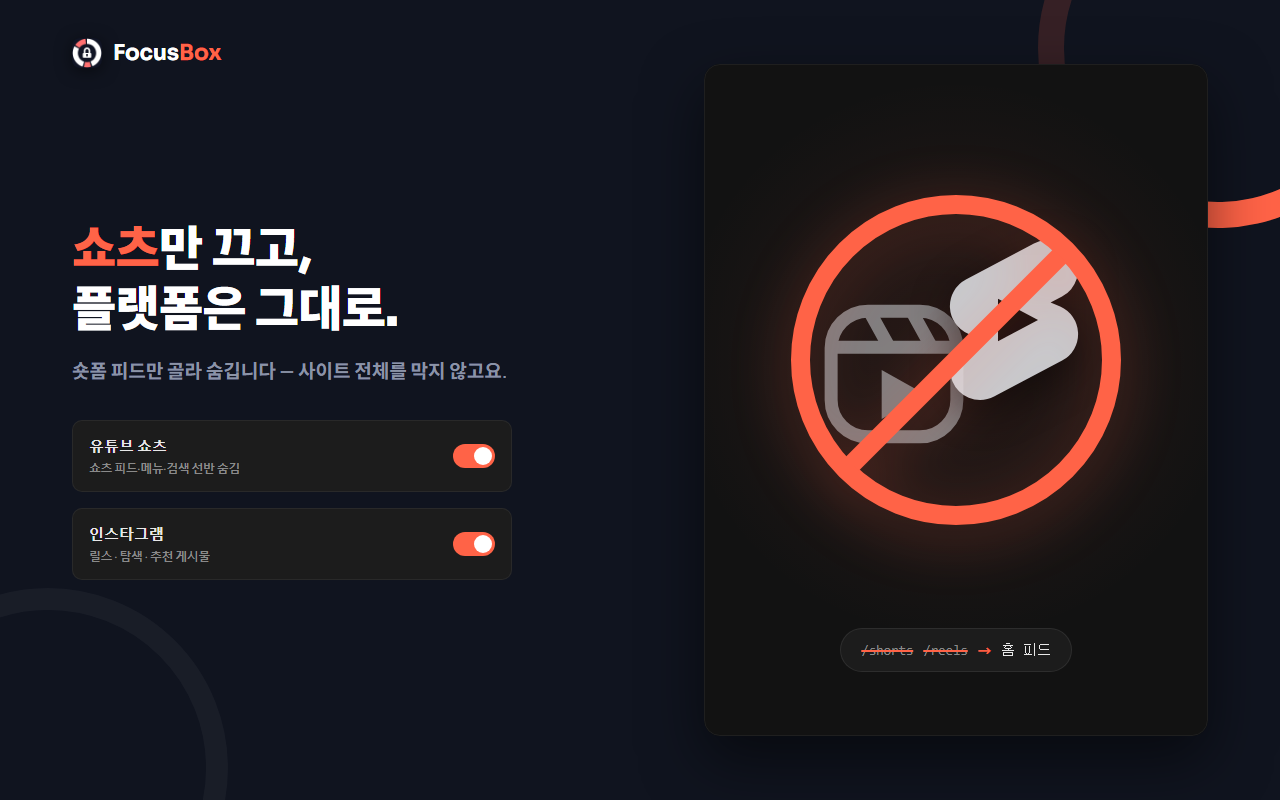
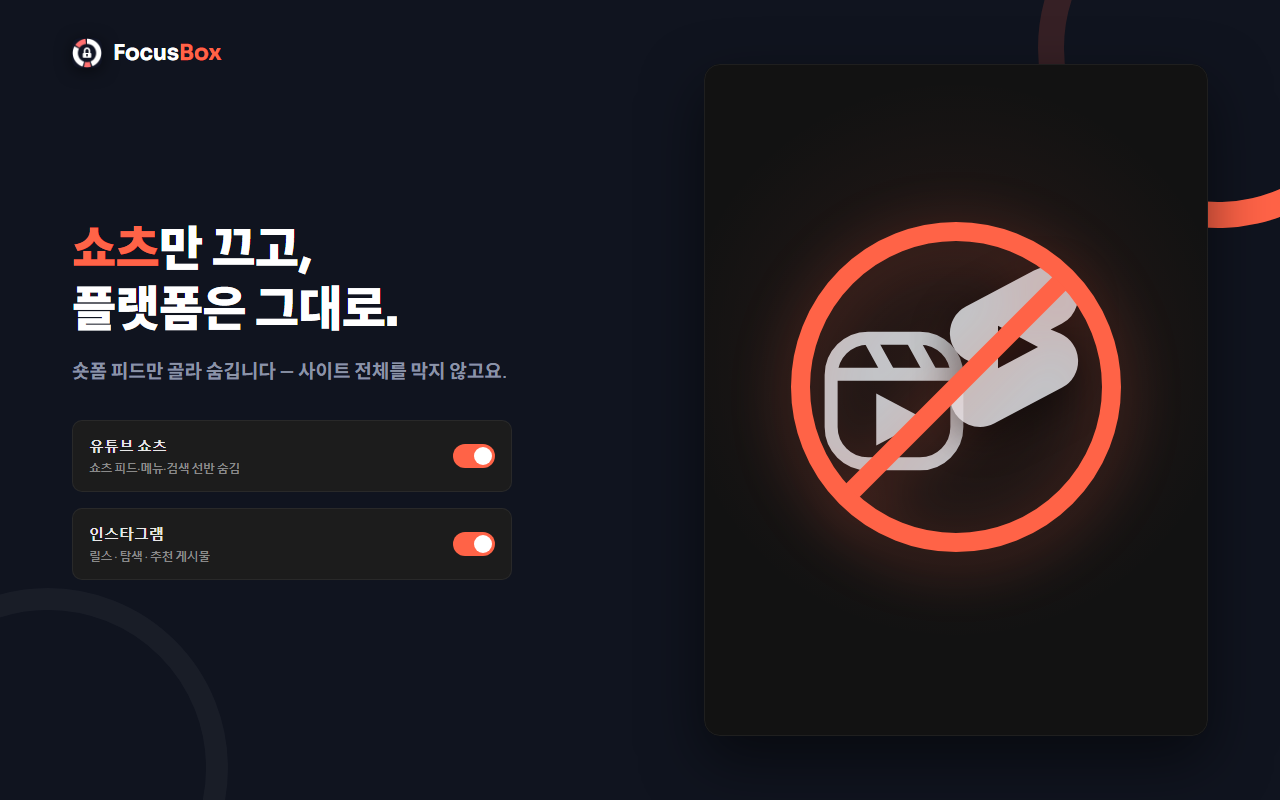
통계 스크린샷 추가

Changed region(s): [[0.5938, 0.2188, 0.875, 0.6875], [0.6875, 0.8125, 0.7812, 0.8438]]

diff --git a/store-listing/assets/screenshot-05-stats.ko.source.html b/store-listing/assets/screenshot-05-stats.ko.source.html
@@ -1,0 +1,59 @@
+<!doctype html><html><head><meta charset="utf-8">
+<link rel="preconnect" href="https://fonts.googleapis.com">
+<link rel="preconnect" href="https://fonts.gstatic.com" crossorigin>
+<link href="https://fonts.googleapis.com/css2?family=Sora:wght@600;700;800&family=Manrope:wght@500;600&display=swap" rel="stylesheet">
+<style>
+*{margin:0;padding:0;box-sizing:border-box}
+html,body{width:1280px;height:800px;overflow:hidden}
+.shot{position:relative;width:1280px;height:800px;background:#10141f;overflow:hidden;font-family:'Manrope',system-ui,Arial,sans-serif}
+
+/* 우상단 tomato 톤링 + 액센트 아크 (절반 캔버스 밖) */
+.ring-tr{position:absolute;top:-132px;right:-118px;width:360px;height:360px;border-radius:50%;border:26px solid rgba(255,99,71,.16)}
+.ring-accent{position:absolute;top:-132px;right:-118px;width:360px;height:360px;border-radius:50%;border:26px solid transparent;border-bottom-color:#ff6347;transform:rotate(-24deg)}
+.ring-bl{position:absolute;bottom:-148px;left:-132px;width:360px;height:360px;border-radius:50%;border:22px solid rgba(255,255,255,.04)}
+
+/* 좌상단 브랜드 락업 */
+.lockup{position:absolute;top:38px;left:72px;display:flex;align-items:center;gap:11px;z-index:2}
+.lockup img{width:30px;height:30px;display:block;border-radius:8px;filter:drop-shadow(0 3px 8px rgba(0,0,0,.5))}
+.wordmark{font-family:'Sora',sans-serif;font-weight:700;font-size:22px;letter-spacing:-.01em;line-height:1}
+.wordmark .w{color:#fff}
+.wordmark .b{color:#ff6347}
+
+/* ── A형: 상단 캡션 밴드 + 하단 와이드 캡처 ── */
+.caption{position:absolute;top:0;left:0;right:0;height:220px;padding:0 72px 32px;display:flex;flex-direction:column;justify-content:flex-end;z-index:2}
+h1{font-family:'Sora',sans-serif;font-weight:800;font-size:44px;line-height:1.2;color:#fff;letter-spacing:-.015em}
+h1 em{font-style:normal;color:#ff6347}
+p{margin-top:16px;font-family:'Manrope',sans-serif;font-weight:600;font-size:19px;line-height:1.4;color:#8b93a7;max-width:920px}
+
+/* 캡처 슬롯.
+   통계 탭 하단 두 카드(집중 통계 + 차단 통계)만 크롭 — 스트릭 달력은 데이터가 적을 때
+   대부분 빈 그리드라 낭비이고, 포모도로 통계는 세로 스택이라 와이드 구도에 안 맞음.
+   두 카드 묶음(1355×711 ≈ 1.91:1)은 슬롯(2.236:1)보다 세로가 길어 높이 기준으로 맞추고,
+   좌우 여백은 캡처 body 배경색(#121212)으로 이음매 없이 채운다. */
+.slot{position:absolute;left:72px;top:220px;width:1136px;height:508px;border-radius:16px;background:#121212;box-shadow:0 24px 60px rgba(0,0,0,.5);overflow:hidden}
+/* crop 1358x713 @ 8,396 → scale 508/713 = .7125 (높이 기준, 렌더 폭 967) */
+.crop{position:absolute;left:50%;top:50%;width:1358px;height:713px;overflow:hidden;transform:translate(-50%,-50%) scale(.7125)}
+.crop img{position:absolute;left:-8px;top:-396px;display:block}
+.slot .edge{position:absolute;inset:0;border-radius:16px;border:1px solid rgba(255,255,255,.06);pointer-events:none}
+</style></head><body>
+<div class="shot">
+  <div class="ring-tr"></div>
+  <div class="ring-accent"></div>
+  <div class="ring-bl"></div>
+
+  <div class="lockup">
+    <img alt="" src="../../icons/icon128.png">
+    <div class="wordmark"><span class="w">Focus</span><span class="b">Box</span></div>
+  </div>
+
+  <div class="caption">
+    <h1><em>쌓이는</em> 습관을 눈으로. 100% 기기 안에서.</h1>
+    <p>일별 집중 시간, 차단 횟수, 상위 차단 도메인. 계정도, 서버도, 추적도 없습니다.</p>
+  </div>
+
+  <div class="slot">
+    <div class="crop"><img alt="" src="Stats-ko.png"></div>
+    <div class="edge"></div>
+  </div>
+</div>
+</body></html>

diff --git a/store-listing/assets/screenshot-05-stats.source.html b/store-listing/assets/screenshot-05-stats.source.html
@@ -1,0 +1,59 @@
+<!doctype html><html><head><meta charset="utf-8">
+<link rel="preconnect" href="https://fonts.googleapis.com">
+<link rel="preconnect" href="https://fonts.gstatic.com" crossorigin>
+<link href="https://fonts.googleapis.com/css2?family=Sora:wght@600;700;800&family=Manrope:wght@500;600&display=swap" rel="stylesheet">
+<style>
+*{margin:0;padding:0;box-sizing:border-box}
+html,body{width:1280px;height:800px;overflow:hidden}
+.shot{position:relative;width:1280px;height:800px;background:#10141f;overflow:hidden;font-family:'Manrope',system-ui,Arial,sans-serif}
+
+/* 우상단 tomato 톤링 + 액센트 아크 (절반 캔버스 밖) */
+.ring-tr{position:absolute;top:-132px;right:-118px;width:360px;height:360px;border-radius:50%;border:26px solid rgba(255,99,71,.16)}
+.ring-accent{position:absolute;top:-132px;right:-118px;width:360px;height:360px;border-radius:50%;border:26px solid transparent;border-bottom-color:#ff6347;transform:rotate(-24deg)}
+.ring-bl{position:absolute;bottom:-148px;left:-132px;width:360px;height:360px;border-radius:50%;border:22px solid rgba(255,255,255,.04)}
+
+/* 좌상단 브랜드 락업 */
+.lockup{position:absolute;top:38px;left:72px;display:flex;align-items:center;gap:11px;z-index:2}
+.lockup img{width:30px;height:30px;display:block;border-radius:8px;filter:drop-shadow(0 3px 8px rgba(0,0,0,.5))}
+.wordmark{font-family:'Sora',sans-serif;font-weight:700;font-size:22px;letter-spacing:-.01em;line-height:1}
+.wordmark .w{color:#fff}
+.wordmark .b{color:#ff6347}
+
+/* ── A형: 상단 캡션 밴드 + 하단 와이드 캡처 ── */
+.caption{position:absolute;top:0;left:0;right:0;height:220px;padding:0 72px 32px;display:flex;flex-direction:column;justify-content:flex-end;z-index:2}
+h1{font-family:'Sora',sans-serif;font-weight:800;font-size:44px;line-height:1.15;color:#fff;letter-spacing:-.015em}
+h1 em{font-style:normal;color:#ff6347}
+p{margin-top:16px;font-family:'Manrope',sans-serif;font-weight:600;font-size:19px;line-height:1.4;color:#8b93a7;max-width:920px}
+
+/* 캡처 슬롯.
+   통계 탭 하단 두 카드(집중 통계 + 차단 통계)만 크롭 — 스트릭 달력은 데이터가 적을 때
+   대부분 빈 그리드라 낭비이고, 포모도로 통계는 세로 스택이라 와이드 구도에 안 맞음.
+   두 카드 묶음(1355×711 ≈ 1.91:1)은 슬롯(2.236:1)보다 세로가 길어 높이 기준으로 맞추고,
+   좌우 여백은 캡처 body 배경색(#121212)으로 이음매 없이 채운다. */
+.slot{position:absolute;left:72px;top:220px;width:1136px;height:508px;border-radius:16px;background:#121212;box-shadow:0 24px 60px rgba(0,0,0,.5);overflow:hidden}
+/* crop 1355x711 @ 12,438 → scale 508/711 = .7145 (높이 기준, 렌더 폭 968) */
+.crop{position:absolute;left:50%;top:50%;width:1355px;height:711px;overflow:hidden;transform:translate(-50%,-50%) scale(.7145)}
+.crop img{position:absolute;left:-12px;top:-438px;display:block}
+.slot .edge{position:absolute;inset:0;border-radius:16px;border:1px solid rgba(255,255,255,.06);pointer-events:none}
+</style></head><body>
+<div class="shot">
+  <div class="ring-tr"></div>
+  <div class="ring-accent"></div>
+  <div class="ring-bl"></div>
+
+  <div class="lockup">
+    <img alt="" src="../../icons/icon128.png">
+    <div class="wordmark"><span class="w">Focus</span><span class="b">Box</span></div>
+  </div>
+
+  <div class="caption">
+    <h1>Watch the habit <em>form</em> — 100% on-device.</h1>
+    <p>Daily focus time, block counts, top blocked domains. No accounts. No servers. No tracking.</p>
+  </div>
+
+  <div class="slot">
+    <div class="crop"><img alt="" src="Stats-en.png"></div>
+    <div class="edge"></div>
+  </div>
+</div>
+</body></html>

diff --git a/store-listing/assets/screenshot-03-strongblock.ko.source.html b/store-listing/assets/screenshot-03-strongblock.ko.source.html
@@ -40,18 +40,12 @@ h1 em{font-style:normal;color:#ff6347}
 .slot-v .glow{position:absolute;inset:0;background:radial-gradient(circle at 50% 44%,rgba(255,99,71,.10),transparent 62%)}
 
 /* 릴스(좌, 아래 레이어) + 쇼츠(우, 위 레이어) 겹침 배치 + 금지 표시 */
-.iconwrap{position:absolute;left:50%;top:44%;transform:translate(-50%,-50%);width:360px;height:360px}
-.icon-reels{position:absolute;left:36px;top:112px;opacity:.5}
-.icon-shorts{position:absolute;left:158px;top:60px;opacity:.88;filter:drop-shadow(0 10px 22px rgba(0,0,0,.65))}
+.iconwrap{position:absolute;left:50%;top:48%;transform:translate(-50%,-50%);width:360px;height:360px}
+.icon-reels{position:absolute;left:36px;top:112px;opacity:.85}
+.icon-shorts{position:absolute;left:158px;top:60px;opacity:.85;filter:drop-shadow(0 10px 22px rgba(0,0,0,.65))}
 .ban{position:absolute;left:50%;top:50%;transform:translate(-50%,-50%);width:330px;height:330px;border:19px solid #ff6347;border-radius:50%;filter:drop-shadow(0 10px 28px rgba(255,99,71,.32))}
 .ban i{position:absolute;left:50%;top:50%;width:294px;height:19px;background:#ff6347;transform:translate(-50%,-50%) rotate(-45deg)}
 
-/* 패널 하단: 리다이렉트 스토리 */
-.redirect{position:absolute;left:0;right:0;bottom:64px;display:flex;justify-content:center}
-.redirect .pill{display:flex;align-items:center;gap:10px;background:#1c1c1c;border:1px solid rgba(255,255,255,.08);border-radius:22px;padding:11px 20px;font-family:'SF Mono',ui-monospace,Menlo,Consolas,monospace;font-size:13.5px}
-.redirect .from{color:#8a8a8a;text-decoration:line-through;text-decoration-color:#ff6347;text-decoration-thickness:2px}
-.redirect .arrow{color:#ff6347;font-family:'Manrope',sans-serif;font-weight:700}
-.redirect .to{color:#e8e8e8}
 </style></head><body>
 <div class="shot">
   <div class="ring-tr"></div>
@@ -87,16 +81,13 @@ h1 em{font-style:normal;color:#ff6347}
           <line x1="8.6" y1="3.2" x2="11.2" y2="7.9"/>
           <line x1="14.8" y1="3.2" x2="17.4" y2="7.9"/>
         </g>
-        <path fill="#dfe3e8" d="M10.2 11.4 L10.2 18.6 L16.6 15 Z"/>
+        <path fill="#dfe3e8" d="M9.4 10.9 L9.4 18.5 L16.6 14.7 Z"/>
       </svg>
       <!-- YouTube Shorts 글리프 (simple-icons, CC0 배포 패스) — 위 레이어 -->
       <svg class="icon-shorts" width="160" height="160" viewBox="0 0 24 24">
         <path fill="#dfe3e8" d="m18.931 9.99-1.441-.601 1.717-.913a4.48 4.48 0 0 0 1.874-6.078 4.506 4.506 0 0 0-6.09-1.874L4.792 5.929a4.504 4.504 0 0 0-2.402 4.193 4.521 4.521 0 0 0 2.666 3.904c.036.012 1.442.6 1.442.6l-1.706.901a4.51 4.51 0 0 0-2.369 3.967A4.528 4.528 0 0 0 6.93 24c.725 0 1.437-.174 2.08-.508l10.21-5.406a4.494 4.494 0 0 0 2.39-4.192 4.525 4.525 0 0 0-2.678-3.904ZM9.597 15.19V8.824l6.007 3.184z"/>
       </svg>
       <div class="ban"><i></i></div>
-    </div>
-    <div class="redirect">
-      <div class="pill"><span class="from">/shorts</span><span class="from">/reels</span><span class="arrow">→</span><span class="to">홈 피드</span></div>
     </div>
     <div class="edge"></div>
   </div>

diff --git a/store-listing/assets/screenshot-03-strongblock.source.html b/store-listing/assets/screenshot-03-strongblock.source.html
@@ -40,18 +40,12 @@ h1 em{font-style:normal;color:#ff6347}
 .slot-v .glow{position:absolute;inset:0;background:radial-gradient(circle at 50% 44%,rgba(255,99,71,.10),transparent 62%)}
 
 /* 릴스(좌, 아래 레이어) + 쇼츠(우, 위 레이어) 겹침 배치 + 금지 표시 */
-.iconwrap{position:absolute;left:50%;top:44%;transform:translate(-50%,-50%);width:360px;height:360px}
-.icon-reels{position:absolute;left:36px;top:112px;opacity:.5}
-.icon-shorts{position:absolute;left:158px;top:60px;opacity:.88;filter:drop-shadow(0 10px 22px rgba(0,0,0,.65))}
+.iconwrap{position:absolute;left:50%;top:48%;transform:translate(-50%,-50%);width:360px;height:360px}
+.icon-reels{position:absolute;left:36px;top:112px;opacity:.85}
+.icon-shorts{position:absolute;left:158px;top:60px;opacity:.85;filter:drop-shadow(0 10px 22px rgba(0,0,0,.65))}
 .ban{position:absolute;left:50%;top:50%;transform:translate(-50%,-50%);width:330px;height:330px;border:19px solid #ff6347;border-radius:50%;filter:drop-shadow(0 10px 28px rgba(255,99,71,.32))}
 .ban i{position:absolute;left:50%;top:50%;width:294px;height:19px;background:#ff6347;transform:translate(-50%,-50%) rotate(-45deg)}
 
-/* 패널 하단: 리다이렉트 스토리 */
-.redirect{position:absolute;left:0;right:0;bottom:64px;display:flex;justify-content:center}
-.redirect .pill{display:flex;align-items:center;gap:10px;background:#1c1c1c;border:1px solid rgba(255,255,255,.08);border-radius:22px;padding:11px 20px;font-family:'SF Mono',ui-monospace,Menlo,Consolas,monospace;font-size:13.5px}
-.redirect .from{color:#8a8a8a;text-decoration:line-through;text-decoration-color:#ff6347;text-decoration-thickness:2px}
-.redirect .arrow{color:#ff6347;font-family:'Manrope',sans-serif;font-weight:700}
-.redirect .to{color:#e8e8e8}
 </style></head><body>
 <div class="shot">
   <div class="ring-tr"></div>
@@ -87,16 +81,13 @@ h1 em{font-style:normal;color:#ff6347}
           <line x1="8.6" y1="3.2" x2="11.2" y2="7.9"/>
           <line x1="14.8" y1="3.2" x2="17.4" y2="7.9"/>
         </g>
-        <path fill="#dfe3e8" d="M10.2 11.4 L10.2 18.6 L16.6 15 Z"/>
+        <path fill="#dfe3e8" d="M9.4 10.9 L9.4 18.5 L16.6 14.7 Z"/>
       </svg>
       <!-- YouTube Shorts 글리프 (simple-icons, CC0 배포 패스) — 위 레이어 -->
       <svg class="icon-shorts" width="160" height="160" viewBox="0 0 24 24">
         <path fill="#dfe3e8" d="m18.931 9.99-1.441-.601 1.717-.913a4.48 4.48 0 0 0 1.874-6.078 4.506 4.506 0 0 0-6.09-1.874L4.792 5.929a4.504 4.504 0 0 0-2.402 4.193 4.521 4.521 0 0 0 2.666 3.904c.036.012 1.442.6 1.442.6l-1.706.901a4.51 4.51 0 0 0-2.369 3.967A4.528 4.528 0 0 0 6.93 24c.725 0 1.437-.174 2.08-.508l10.21-5.406a4.494 4.494 0 0 0 2.39-4.192 4.525 4.525 0 0 0-2.678-3.904ZM9.597 15.19V8.824l6.007 3.184z"/>
       </svg>
       <div class="ban"><i></i></div>
-    </div>
-    <div class="redirect">
-      <div class="pill"><span class="from">/shorts</span><span class="from">/reels</span><span class="arrow">→</span><span class="to">home feed</span></div>
     </div>
     <div class="edge"></div>
   </div>

diff --git a/options-stats.js b/options-stats.js
@@ -515,14 +515,14 @@ function _renderStreakCalendar(allEvents, streak) {
   top.className = 'scal-top';
   const eyebrowEl = document.createElement('div');
   eyebrowEl.className = 'stat-eyebrow';
-  eyebrowEl.textContent = '🔥 연속 집중 스트릭';
+  eyebrowEl.textContent = T('statsStreak');
   const valueEl = document.createElement('div');
   valueEl.className = 'stat-value';
   const valueNum = document.createElement('span');
   valueNum.textContent = String(streak.current);
   const valueUnit = document.createElement('span');
   valueUnit.className = 'stat-unit';
-  valueUnit.textContent = '일째';
+  valueUnit.textContent = T('statsDayUnit');
   valueEl.append(valueNum, valueUnit);
   top.append(eyebrowEl, valueEl);
   container.appendChild(top);
@@ -543,7 +543,7 @@ function _renderStreakCalendar(allEvents, streak) {
     if (m !== lastMonth) {
       lastMonth = m;
       const lbl = document.createElement('span');
-      lbl.textContent = (m + 1) + '월';
+      lbl.textContent = T('month' + (m + 1));
       lbl.style.left = (w * PITCH) + 'px';
       monthsEl.appendChild(lbl);
     }
@@ -555,7 +555,7 @@ function _renderStreakCalendar(allEvents, streak) {
 
   const daysEl = document.createElement('div');
   daysEl.className = 'scal-days';
-  ['월', '', '수', '', '금', '', '일'].forEach(lbl => {
+  [T('dayMon'), '', T('dayWed'), '', T('dayFri'), '', T('daySun')].forEach(lbl => {
     const s = document.createElement('span');
     s.textContent = lbl;
     daysEl.appendChild(s);
@@ -630,9 +630,9 @@ function _renderStreakCalendar(allEvents, streak) {
   const mkCell = (bg) => { const s = document.createElement('span'); s.className = 'scal-leg-cell'; s.style.background = bg; return s; };
   const mkLbl  = (t)  => { const s = document.createElement('span'); s.className = 'scal-leg-lbl';  s.textContent = t; return s; };
   legend.append(
-    mkLbl('없음'), mkCell('var(--scal-cell-empty)'),
+    mkLbl(T('statsStreakLegendNone')), mkCell('var(--scal-cell-empty)'),
     mkCell('var(--scal-t1)'), mkCell('var(--scal-t2)'), mkCell('var(--scal-t3)'), mkCell('var(--scal-t4)'),
-    mkLbl('집중')
+    mkLbl(T('statsStreakLegendFocus'))
   );
   legendRow.appendChild(legend);
 

diff --git a/options.html b/options.html
@@ -1131,7 +1131,8 @@ button { cursor: pointer; font-family: inherit; }
   grid-template-rows: repeat(7, 20px);
   gap: 3px;
   padding-top: 24px;
-  width: 16px;
+  /* ko는 한 글자(월)라 16px면 충분하지만 en은 "Mon" 등 3글자 — 내용에 맞춰 늘어나게 min-width */
+  min-width: 16px;
 }
 .scal-days span {
   font-size: 0.62rem;

diff --git a/store-listing/assets/README.md b/store-listing/assets/README.md
@@ -7,7 +7,7 @@ Chrome Web Store 제출에 필요한 이미지 에셋의 상태와 제작 방법
 | 에셋 | 사양 | 필수 | 상태 |
 |------|------|------|------|
 | 스토어 아이콘 | 128×128 PNG | 필수 | ✅ `icons/icon128.png` |
-| 스크린샷 | 1280×800 **또는** 640×400 PNG/JPEG, 1~5장 | 최소 1장 필수 | 🟨 4/5 — `screenshots/` 1~4 완료, 5(통계 캡처) 남음 (아래 §2) |
+| 스크린샷 | 1280×800 **또는** 640×400 PNG/JPEG, 1~5장 | 최소 1장 필수 | ✅ **5/5 완료** — `screenshots/screenshot-0{1..5}-*{,.ko}.png` (EN/KO 각 5장, 아래 §2) |
 | 작은 프로모션 타일 | 440×280 PNG/JPEG | 선택(권장) | ✅ `promo-small-440x280.png`(EN) · `promo-small-440x280.ko.png`(KO) |
 | 마퀴 프로모션 타일 | 1400×560 | 선택 | ⬜ 미제작 (필요 시 동일 방식으로 생성 가능) |
 
@@ -71,7 +71,7 @@ Chrome Web Store 제출에 필요한 이미지 에셋의 상태와 제작 방법
 **템플릿은 두 가지 (1280×800 공통):**
 
 - **A형 — 상단 캡션 + 하단 와이드 캡처** (슬라이드 1·2·4): 아래 표 참고.
-- **B형 — 좌측 세로중앙 캡션 + 우측 세로 패널** (슬라이드 3·5): 캡션 존 `left:72 w:560`
+- **B형 — 좌측 세로중앙 캡션 + 우측 세로 패널** (슬라이드 3): 캡션 존 `left:72 w:560`
   (세로 중앙 정렬, 헤드라인 48px), 세로 패널 `left:704 top:64 w:504 h:672`(**3:4**),
   슬롯 스타일(radius 16/그림자/edge border)은 A형과 동일. 세로로 긴 콘텐츠(통계 컬럼,
   아이콘 그래픽)에 사용 — A형 슬롯(2.236:1)에 세로 콘텐츠를 넣으면 축소율이 급락하는
@@ -97,8 +97,9 @@ Chrome Web Store 제출에 필요한 이미지 에셋의 상태와 제작 방법
 |---|---|---|---|
 | 1 (도넛 스케줄러) | `screenshots/screenshot-01-donut{,.ko}.png` | `screenshot-01-donut{,.ko}.source.html` | `Donut-{en,ko}.png` (4200×2400) |
 | 2 (차단 화면) | `screenshots/screenshot-02-block{,.ko}.png` | `screenshot-02-block{,.ko}.source.html` | `block-{en,ko}.png` (4200×2400) |
-| 3 (강력 차단) | `screenshots/screenshot-03-strongblock{,.ko}.png` | `screenshot-03-strongblock{,.ko}.source.html` | **없음 — 그래픽.** 릴스 글리프(직접 드로잉, 좌·흐린 아래 레이어) + 쇼츠 글리프(simple-icons 패스, 우·그림자 위 레이어)를 겹치고 tomato 금지 링 + `/shorts /reels → home feed` 리다이렉트 필. **B형 레이아웃**(아래 참고). KO는 EN 소스에서 sed 텍스트 치환으로 생성 |
+| 3 (강력 차단) | `screenshots/screenshot-03-strongblock{,.ko}.png` | `screenshot-03-strongblock{,.ko}.source.html` | **없음 — 그래픽.** 릴스 글리프(직접 드로잉, 좌·아래 레이어) + 쇼츠 글리프(simple-icons 패스, 우·그림자 위 레이어)를 같은 색·같은 불투명도(#dfe3e8/.85)로 겹치고 tomato 금지 링. **B형 레이아웃**(아래 참고). KO는 EN 소스에서 sed 텍스트 치환으로 생성 |
 | 4 (포모도로+PiP) | `screenshots/screenshot-04-pomodoro{,.ko}.png` | `screenshot-04-pomodoro{,.ko}.source.html` | `pomodoro-{en,ko}.png` (1566×890 / 1600×879) |
+| 5 (통계) | `screenshots/screenshot-05-stats{,.ko}.png` | `screenshot-05-stats{,.ko}.source.html` | `Stats-{en,ko}.png` (1379×1149 / 1374×1109). **A형.** 하단 두 카드(집중 통계+차단 통계)만 크롭 — 스트릭 달력은 데이터가 적으면 빈 그리드가 대부분이라 제외, 포모도로 통계는 세로 스택이라 와이드 구도에 부적합. 두 카드 묶음(≈1.91:1)은 슬롯보다 세로가 길어 높이 기준으로 맞추고 좌우를 `#121212`로 채움(72% 스케일). EN·KO 크롭 오프셋 상이 — 소스 주석 참고 |
 
 슬라이드 1 크롭 메모: 상단 네비게이션 바만 제외하고 두 카드(박스 추가 폼 + 도넛)를 body 여백
 포함으로 자르면 4095×1831 = 2.2365로 슬롯 비율과 사실상 일치해 레터박스가 없다. 도넛 하단